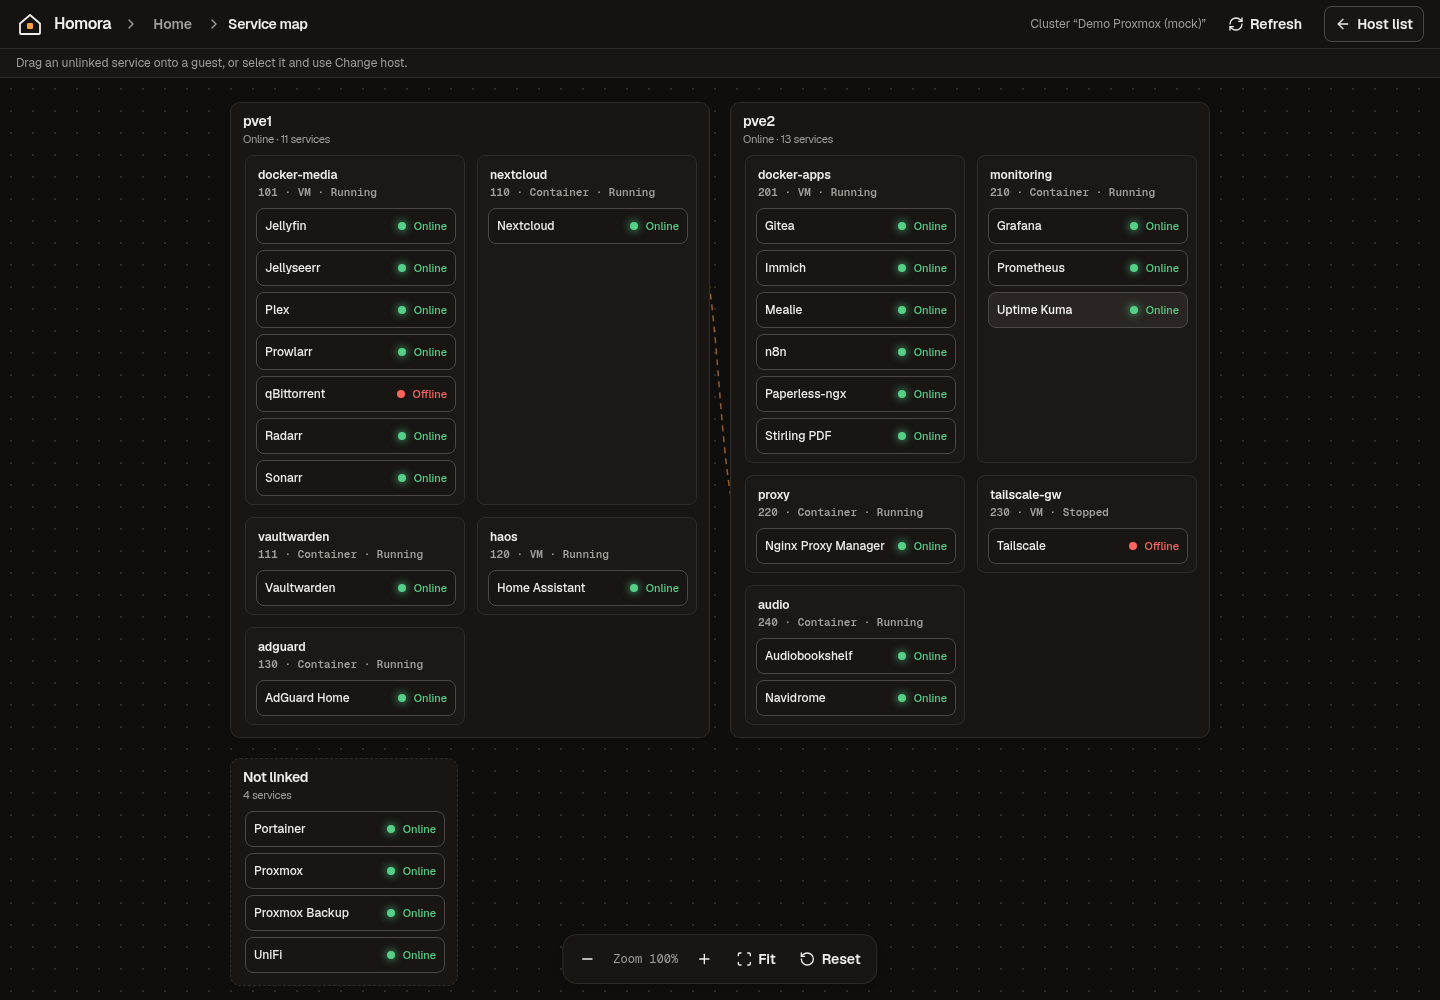
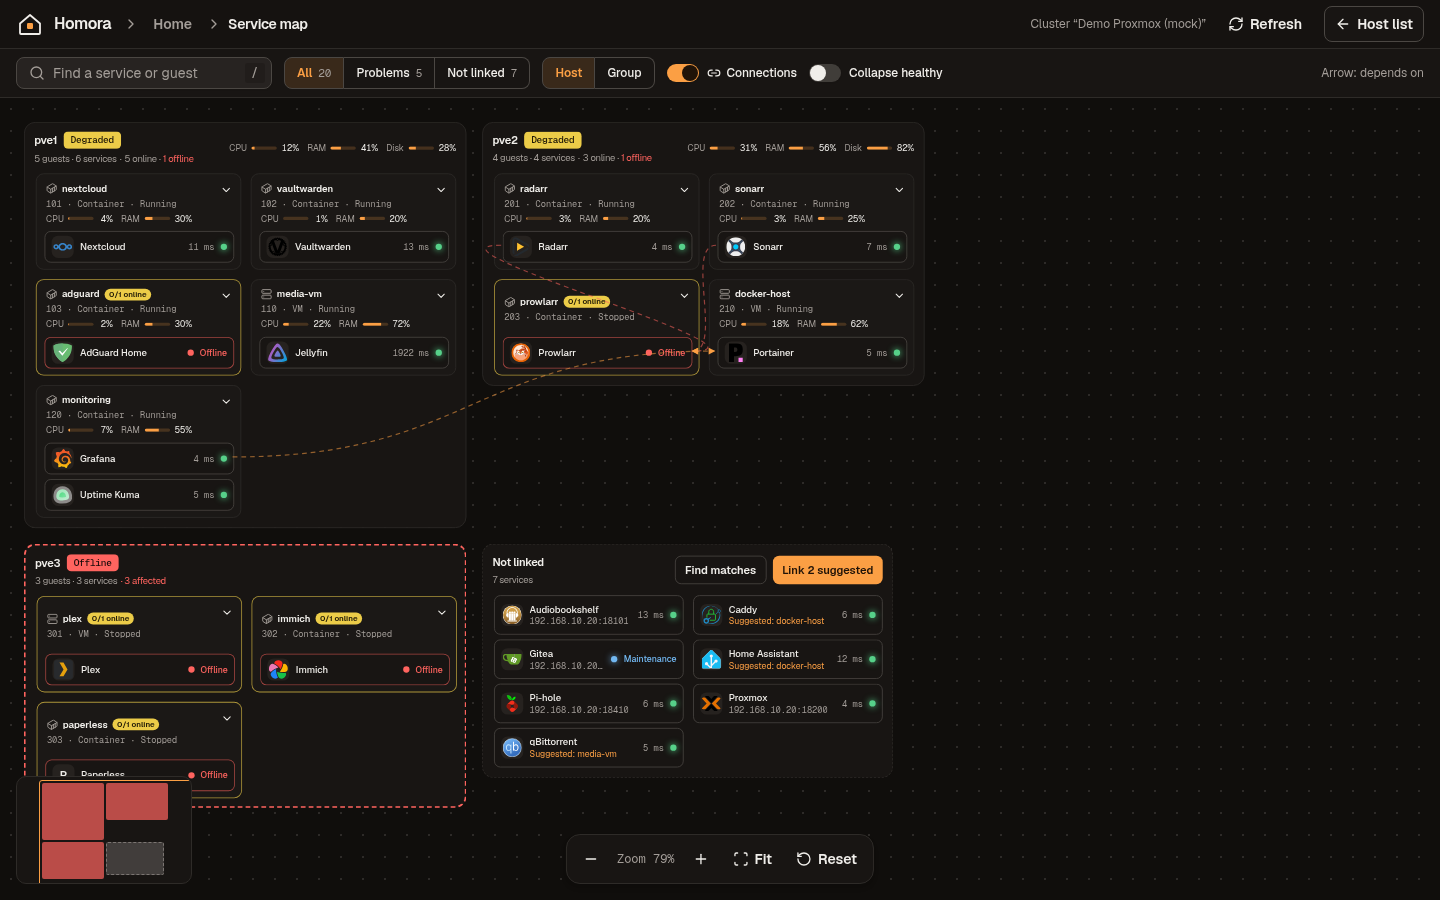
docs: describe the redesigned service map and refresh its screenshots
Both languages, the services guide, ADR 0008 and the evolution log. Adds a
screenshot of the map filtered to problems; both images use the synthetic
demo data and example addresses.

diff --git a/docs/screenshots/README.md b/docs/screenshots/README.md
@@ -26,39 +26,40 @@ results and the 90-day hourly counts behind the uptime figures, heatmaps and inc
 
 ## Files
 
-| File                               | Screen                                                 |
-| ---------------------------------- | ------------------------------------------------------ |
-| `dashboard-dark.png`               | Dashboard, dark theme (hero image)                     |
-| `dashboard-light.png`              | Dashboard, light theme                                 |
-| `dashboard-cards.png`              | Dashboard with the Cards layout                        |
-| `dashboard-drawer.png`             | Details drawer of a failing service                    |
-| `command-palette.png`              | Command palette filtering with `status:down`           |
-| `service-detail.png`               | A service's uptime, latency and incidents              |
-| `service-form.png`                 | Service form, Appearance tab                           |
-| `service-form-monitoring.png`      | Service form, Monitoring tab                           |
-| `service-form-connections.png`     | Service form, Connections tab                          |
-| `organize-mode.png`                | Organize mode                                          |
-| `host-view.png`                    | Host view with a service that may be affected          |
-| `host-map.png`                     | Service map of nodes, guests and services              |
-| `integrations.png`                 | Integrations page                                      |
-| `agents.png`                       | Agents page with a pending proposal                    |
-| `proposal-review.png`              | A proposal's diff with Approve and Reject              |
-| `proposal-review-mobile.png`       | The same review on a phone                             |
-| `activity.png`                     | Activity log                                           |
-| `account.png`                      | Account page                                           |
-| `login.png`                        | Sign-in page                                           |
-| `public-status.png`                | Public status page (anonymous view)                    |
-| `settings-appearance.png`          | Settings → Appearance                                  |
-| `settings-home.png`                | Settings → Home and pages                              |
-| `settings-topbar.png`              | Settings → Top bar and shortcuts                       |
-| `settings-alerts.png`              | Settings → Alerts                                      |
-| `settings-public.png`              | Settings → Public status                               |
-| `settings-backup.png`              | Settings → Export and import                           |
-| `mobile-dashboard.png`             | Dashboard on a phone                                   |
-| `widgets-gallery-integrations.png` | Gallery of integration widgets                         |
-| `widgets-gallery-local.png`        | Gallery of page widgets that need no connection        |
-| `widgets-gallery-monitoring.png`   | Gallery of monitoring widgets                          |
-| `widgets/<name>.png`               | One image per widget (32), for the widget gallery page |
+| File                               | Screen                                                         |
+| ---------------------------------- | -------------------------------------------------------------- |
+| `dashboard-dark.png`               | Dashboard, dark theme (hero image)                             |
+| `dashboard-light.png`              | Dashboard, light theme                                         |
+| `dashboard-cards.png`              | Dashboard with the Cards layout                                |
+| `dashboard-drawer.png`             | Details drawer of a failing service                            |
+| `command-palette.png`              | Command palette filtering with `status:down`                   |
+| `service-detail.png`               | A service's uptime, latency and incidents                      |
+| `service-form.png`                 | Service form, Appearance tab                                   |
+| `service-form-monitoring.png`      | Service form, Monitoring tab                                   |
+| `service-form-connections.png`     | Service form, Connections tab                                  |
+| `organize-mode.png`                | Organize mode                                                  |
+| `host-view.png`                    | Host view with a service that may be affected                  |
+| `host-map.png`                     | Service map of nodes, guests and services                      |
+| `host-map-problem.png`             | The map filtered to problems, with a failing service's details |
+| `integrations.png`                 | Integrations page                                              |
+| `agents.png`                       | Agents page with a pending proposal                            |
+| `proposal-review.png`              | A proposal's diff with Approve and Reject                      |
+| `proposal-review-mobile.png`       | The same review on a phone                                     |
+| `activity.png`                     | Activity log                                                   |
+| `account.png`                      | Account page                                                   |
+| `login.png`                        | Sign-in page                                                   |
+| `public-status.png`                | Public status page (anonymous view)                            |
+| `settings-appearance.png`          | Settings → Appearance                                          |
+| `settings-home.png`                | Settings → Home and pages                                      |
+| `settings-topbar.png`              | Settings → Top bar and shortcuts                               |
+| `settings-alerts.png`              | Settings → Alerts                                              |
+| `settings-public.png`              | Settings → Public status                                       |
+| `settings-backup.png`              | Settings → Export and import                                   |
+| `mobile-dashboard.png`             | Dashboard on a phone                                           |
+| `widgets-gallery-integrations.png` | Gallery of integration widgets                                 |
+| `widgets-gallery-local.png`        | Gallery of page widgets that need no connection                |
+| `widgets-gallery-monitoring.png`   | Gallery of monitoring widgets                                  |
+| `widgets/<name>.png`               | One image per widget (32), for the widget gallery page         |
 
 ## How to refresh them
 

diff --git a/docs/user-guide/dashboard.md b/docs/user-guide/dashboard.md
@@ -83,7 +83,55 @@ Open **Display** to choose how cards look. The choice is saved in your browser; 
 
 ![Host view](../screenshots/host-view.png)
 
+### Service map
+
+The map answers four questions in order: is everything fine, where is the problem, what depends on it, and how do I
+place the services that have no host. It is read-only: nothing here restarts a guest or a service, opens logs, or
+changes Proxmox. The only things it saves are Homora's own host links and the **External** mark.
+
 ![Service map](../screenshots/host-map.png)
+
+- **Toolbar.** Search a service, address or guest (`/` focuses it, `Esc` clears it; accents are ignored). **All**,
+  **Problems** and **Not linked** show how many each holds. **Host** or **Group** arranges the same tiles by the machine
+  they run on or by your dashboard groups. **Connections** shows or hides the arrows for the dependencies you recorded
+  (the choice is remembered in this browser). **Collapse healthy** uses the same setting as Home.
+- **Hosts and guests.** Each node shows its state in words (**Online**, **Degraded**, **Offline**), a summary such as
+  _5 online · 1 offline_, and CPU, RAM and disk meters. A guest shows its type, id, state and CPU and RAM. A meter is
+  left out when Proxmox did not report it (a stopped guest, an older Proxmox): it is never drawn as 0 %. A guest with
+  a failing service or a stopped guest gets an _x/y online_ chip, and the chevron collapses it to its header.
+- **Services.** Each tile has the service icon, its name, a status light and, when healthy, the latency. The word for
+  the state is always there for a screen reader, and visible on anything that is not healthy.
+- **Connections.** Arrows point from a service to what it depends on. Selecting a service highlights its chain, and an
+  arrow turns red when what it points to is down.
+- **Minimap and zoom.** The small map in the corner shows the part you are looking at; press or drag on it to move.
+  **Fit** and **Reset** sit beside the zoom buttons, and the map fits itself when it opens if it would not fit at 100 %.
+
+#### Finding a problem
+
+**Problems** collapses and mutes every guest that is fine and keeps the ones with a failing or slow service, a stopped
+guest or an offline host in focus. Nothing is removed: a collapsed guest still lists its services in the **Host** view
+and in the details panel. When nothing is wrong, the map says so.
+
+![The map filtered to problems, with the details of a failing service](../screenshots/host-map-problem.png)
+
+Select a tile to open the details on the right (a sheet at the bottom on narrow windows). For a failing service the
+panel opens with **Needs attention**: the reason of the last check, how long it has been down and why (host offline,
+guest stopped, service not responding). It also shows uptime, where it runs, **Reached through** (the chain of
+dependencies in front of it) and read-only actions: **Open service**, **Open card on Home**, **Change host** and
+**See uptime and incidents**. Selecting a guest shows its load and its services.
+
+#### Services without a host
+
+**Not linked** lists the services that run on no guest yet.
+
+- Drag a service onto a guest, or select it and use **Change host**; both save exactly the same link.
+- **Find matches** reads guest configurations once, on request, and shows the suggestion on each tile with how strong
+  it is and the evidence behind it (the same rules as [suggested hosts](services-and-monitoring.md#where-a-service-runs-and-what-it-needs)).
+  **Link N suggested** links only the strong, unambiguous ones, and a toast offers **Undo**. A weaker match can be
+  accepted or dismissed from the details panel.
+- **Mark as external** is for services that run nowhere in your infrastructure (a cloud service, a VPN). They move to
+  **External**, leave the suggestions, and appear in the **Host** view too. **Move to Not linked** undoes it, and so
+  does dropping a service on **External**.
 
 **Display** also sets descriptions and the uptime period (24 h, 7 d or 30 d), also in **Settings → Home and pages**.
 

diff --git a/docs/evolution.md b/docs/evolution.md
@@ -2203,3 +2203,28 @@ not measure end-to-end latency under contention. Engineering standards are an En
   `pnpm build`, `pnpm docs:build`, and `pnpm integration:catalog`. Tests use synthetic responses
   only. **Not validated:** a real Home Assistant instance or a browser walkthrough; live-service
   validation remains pending, and no real infrastructure was contacted.
+
+## Service map redesign (#343)
+
+- The map answers, in order, whether everything is fine, where the problem is, what depends on it and how to place
+  services without a host. Toolbar with search (`/`), **All | Problems | Not linked**, **Host | Group**, **Connections**
+  (remembered in the browser) and **Collapse healthy** (the Home preference); host and guest headers with state in words,
+  a health summary and CPU, RAM and disk meters; guests laid out in columns by height and collapsible; tiles with the
+  brand icon, status light and latency (the healthy word is kept for screen readers); a minimap, auto-fit on open and a
+  docked details panel (a sheet on narrow windows) with **Needs attention**, **Reached through** and read-only actions.
+- Data: the Proxmox inventory gets optional `metrics` from the existing `/cluster/resources` call (no new request),
+  validated and omitted for an offline node or a stopped guest; migration `0051` adds `services.host_external` and
+  `PUT /api/services/:id/host` accepts `external`. **Find matches** stays on request; **Link N suggested** links only
+  strong, unambiguous matches and offers undo.
+- Differences from the mockup, by decision: no restart or logs actions (Homora is read-only), no Tidy (the layout is
+  always automatic), no edge types or match percentages (no data behind them), no node as a link target and no guest IP
+  in the header (it needs each guest's configuration on every open). Healthy guests are muted with `muted` tokens, not
+  opacity, to keep text contrast. **Problems first** follows the Home preference (and is forced while the Problems filter
+  is on), and the Host view applies the same order so focus order keeps matching.
+- The external mark is not exported or imported, like the host link. The development server answers the suggestions of
+  its demo cluster with fixed examples, because the demo has no guest configuration to read.
+- Validation: unit tests for health, layout, filters, search, the dependency chain, the inventory metrics and migration
+  `0051`; Testing Library tests for the toolbar, filters, search, connections, bulk link with undo, external,
+  the panel and the minimap; checked by hand in the embedded browser and with `agent-browser` against the demo
+  seed (light and dark, 1440 and 1024 px wide). **Not validated:** a real Proxmox cluster (metrics, node and guest
+  states and suggestions come from the demo's fixed data), touch input and screen readers on the map.

diff --git a/docs/pt-BR/user-guide/dashboard.md b/docs/pt-BR/user-guide/dashboard.md
@@ -14,6 +14,10 @@ Use a busca ou `Ctrl K` para localizar serviços e configurações. Os filtros a
 
 Em **Organizar**, adicione, edite, mova ou remova cartões e grupos. É possível alterar a quantidade de colunas e a disposição. Os cartões podem ser exibidos em diferentes layouts; as visualizações de host e mapa ajudam a entender relações entre serviços e infraestrutura.
 
+O **Mapa de serviços** é somente leitura e responde, em ordem: está tudo bem, onde está o problema, o que depende dele e como resolver os serviços sem host. A barra tem busca (`/` foca, `Esc` limpa), os filtros **Todos**, **Problemas** e **Sem vínculo** com contagem, **Agrupar por** host ou grupo, **Conexões** (as setas das dependências, lembrado no navegador) e **Recolher saudáveis**, que usa a mesma preferência da Home. Cada nó e guest mostra o estado por escrito, um resumo de saúde e medidores de CPU, RAM e disco quando o Proxmox os informa; um medidor ausente é omitido, nunca desenhado como 0 %. **Problemas** recolhe e esmaece o que está saudável sem remover nada, e o painel lateral de um serviço com falha mostra **Precisa de atenção** (motivo, há quanto tempo e por quê), onde ele roda, por onde é alcançado e ações apenas de leitura. Em **Sem vínculo**, **Buscar correspondências** mostra sugestões com a força e a evidência, **Vincular N sugeridas** vincula só as fortes e permite desfazer, e **Marcar como externo** separa serviços que não rodam em nenhum guest (nuvem, VPN). Nada disso reinicia guests nem altera o Proxmox; o minimapa, o ajuste automático e o zoom ajudam a navegar.
+
+![Mapa de serviços com um serviço fora do ar](../../screenshots/host-map-problem.png)
+
 ## Detalhes e widgets
 
 Abra os detalhes de um serviço para consultar verificações, latência e histórico. Marque serviços como favoritos para acessá-los com facilidade. Widgets de página exibem informações como relógio e dados de integrações; widgets de cartão aparecem junto ao serviço.

diff --git a/docs/decisions/0008-service-to-host-map.md b/docs/decisions/0008-service-to-host-map.md
@@ -54,6 +54,13 @@ dependencies). The map manages only Homora's own data and never writes to Proxmo
 - **Impact:** a service that depends, directly or through others, on one that is impaired (host offline, guest stopped or service down) shows "May be affected: depends on X (manual dependency)", and the offline banner adds "N more may be affected through dependencies you recorded". It is always worded as manual and as "may", never as a measured fact, and it never produces "offline".
 - **MCP:** read access through `list_service_dependencies` under the existing `services:read` scope (ids and card names only, no inventory data). There is no agent write: dependencies are a human decision in this release.
 - **Not carried by export/import,** like the host link.
+- **External services (issue #343).** Migration `0051` adds `services.host_external` (`NOT NULL DEFAULT 0`) for a card
+  that runs on no guest (a cloud service, a VPN). `PUT /api/services/:id/host` accepts `external` next to `host`:
+  `external: true` requires `host: null`, and linking a host clears it. A card marked external is left out of the host
+  suggestions and listed under **External** in the Host view and the map. It is not carried by export/import, like the
+  host link, and no agent or MCP tool reads or writes it. The inventory also carries optional `metrics` (CPU, memory and
+  disk) read from the same `/cluster/resources` call, validated, and left out for an offline node or a stopped guest;
+  they reach only the signed-in map, never MCP or the public status page.
 
 ### Open decisions (defaults taken)
 

diff --git a/docs/user-guide/services-and-monitoring.md b/docs/user-guide/services-and-monitoring.md
@@ -178,13 +178,16 @@ The **Connections** tab models your infrastructure without touching it.
 - **Suggested hosts:** the dashboard proposes links when it finds independent evidence: the card's address in the guest's
   configuration, or reported by the QEMU guest agent or a Docker source tied to that guest. A name match alone never
   counts. You accept or dismiss each one.
+- **Not running on a guest:** a card for something that runs nowhere in your infrastructure (a cloud service, a VPN) can
+  be marked **external** on the [map](dashboard.md#service-map). It then stays out of the suggestions and shows under
+  **External**.
 - **Depends on:** the services this one needs. These links are manual, and Homora refuses one that would create a cycle.
 - **Impact:** a service whose host or dependency is impaired is flagged _may be affected_, never as a measured fact.
 
 The **Host** view and **Map** arrange services by host; see the [dashboard guide](dashboard.md#layouts-and-views).
 
-This is Homora's own data; nothing is written to Proxmox or any other system. Links and dependencies are not carried by
-export and import.
+This is Homora's own data; nothing is written to Proxmox or any other system. Links, the external mark and dependencies
+are not carried by export and import.
 
 ## Tips
 

diff --git a/docs/pt-BR/user-guide/services-and-monitoring.md b/docs/pt-BR/user-guide/services-and-monitoring.md
@@ -18,6 +18,6 @@ Configure limites de falhas e recuperação para reduzir alertas por oscilaçõe
 
 ![Detalhes de disponibilidade de um serviço](../../screenshots/service-detail.png)
 
-Também é possível registrar onde um serviço roda e suas dependências, para visualizá-las nas telas de host e mapa. Veja [dashboard](dashboard.md) e [alertas](notifications-and-status-page.md).
+Também é possível registrar onde um serviço roda e suas dependências, para visualizá-las nas telas de host e mapa. Um serviço que não roda em nenhum guest (nuvem, VPN) pode ser marcado como **externo** no mapa; ele sai das sugestões e aparece em **Externos**. Vínculos de host, a marca de externo e dependências não vão na exportação e importação. Veja [dashboard](dashboard.md) e [alertas](notifications-and-status-page.md).
 
 [Leia a referência completa de serviços e monitoramento em inglês](/user-guide/services-and-monitoring).
